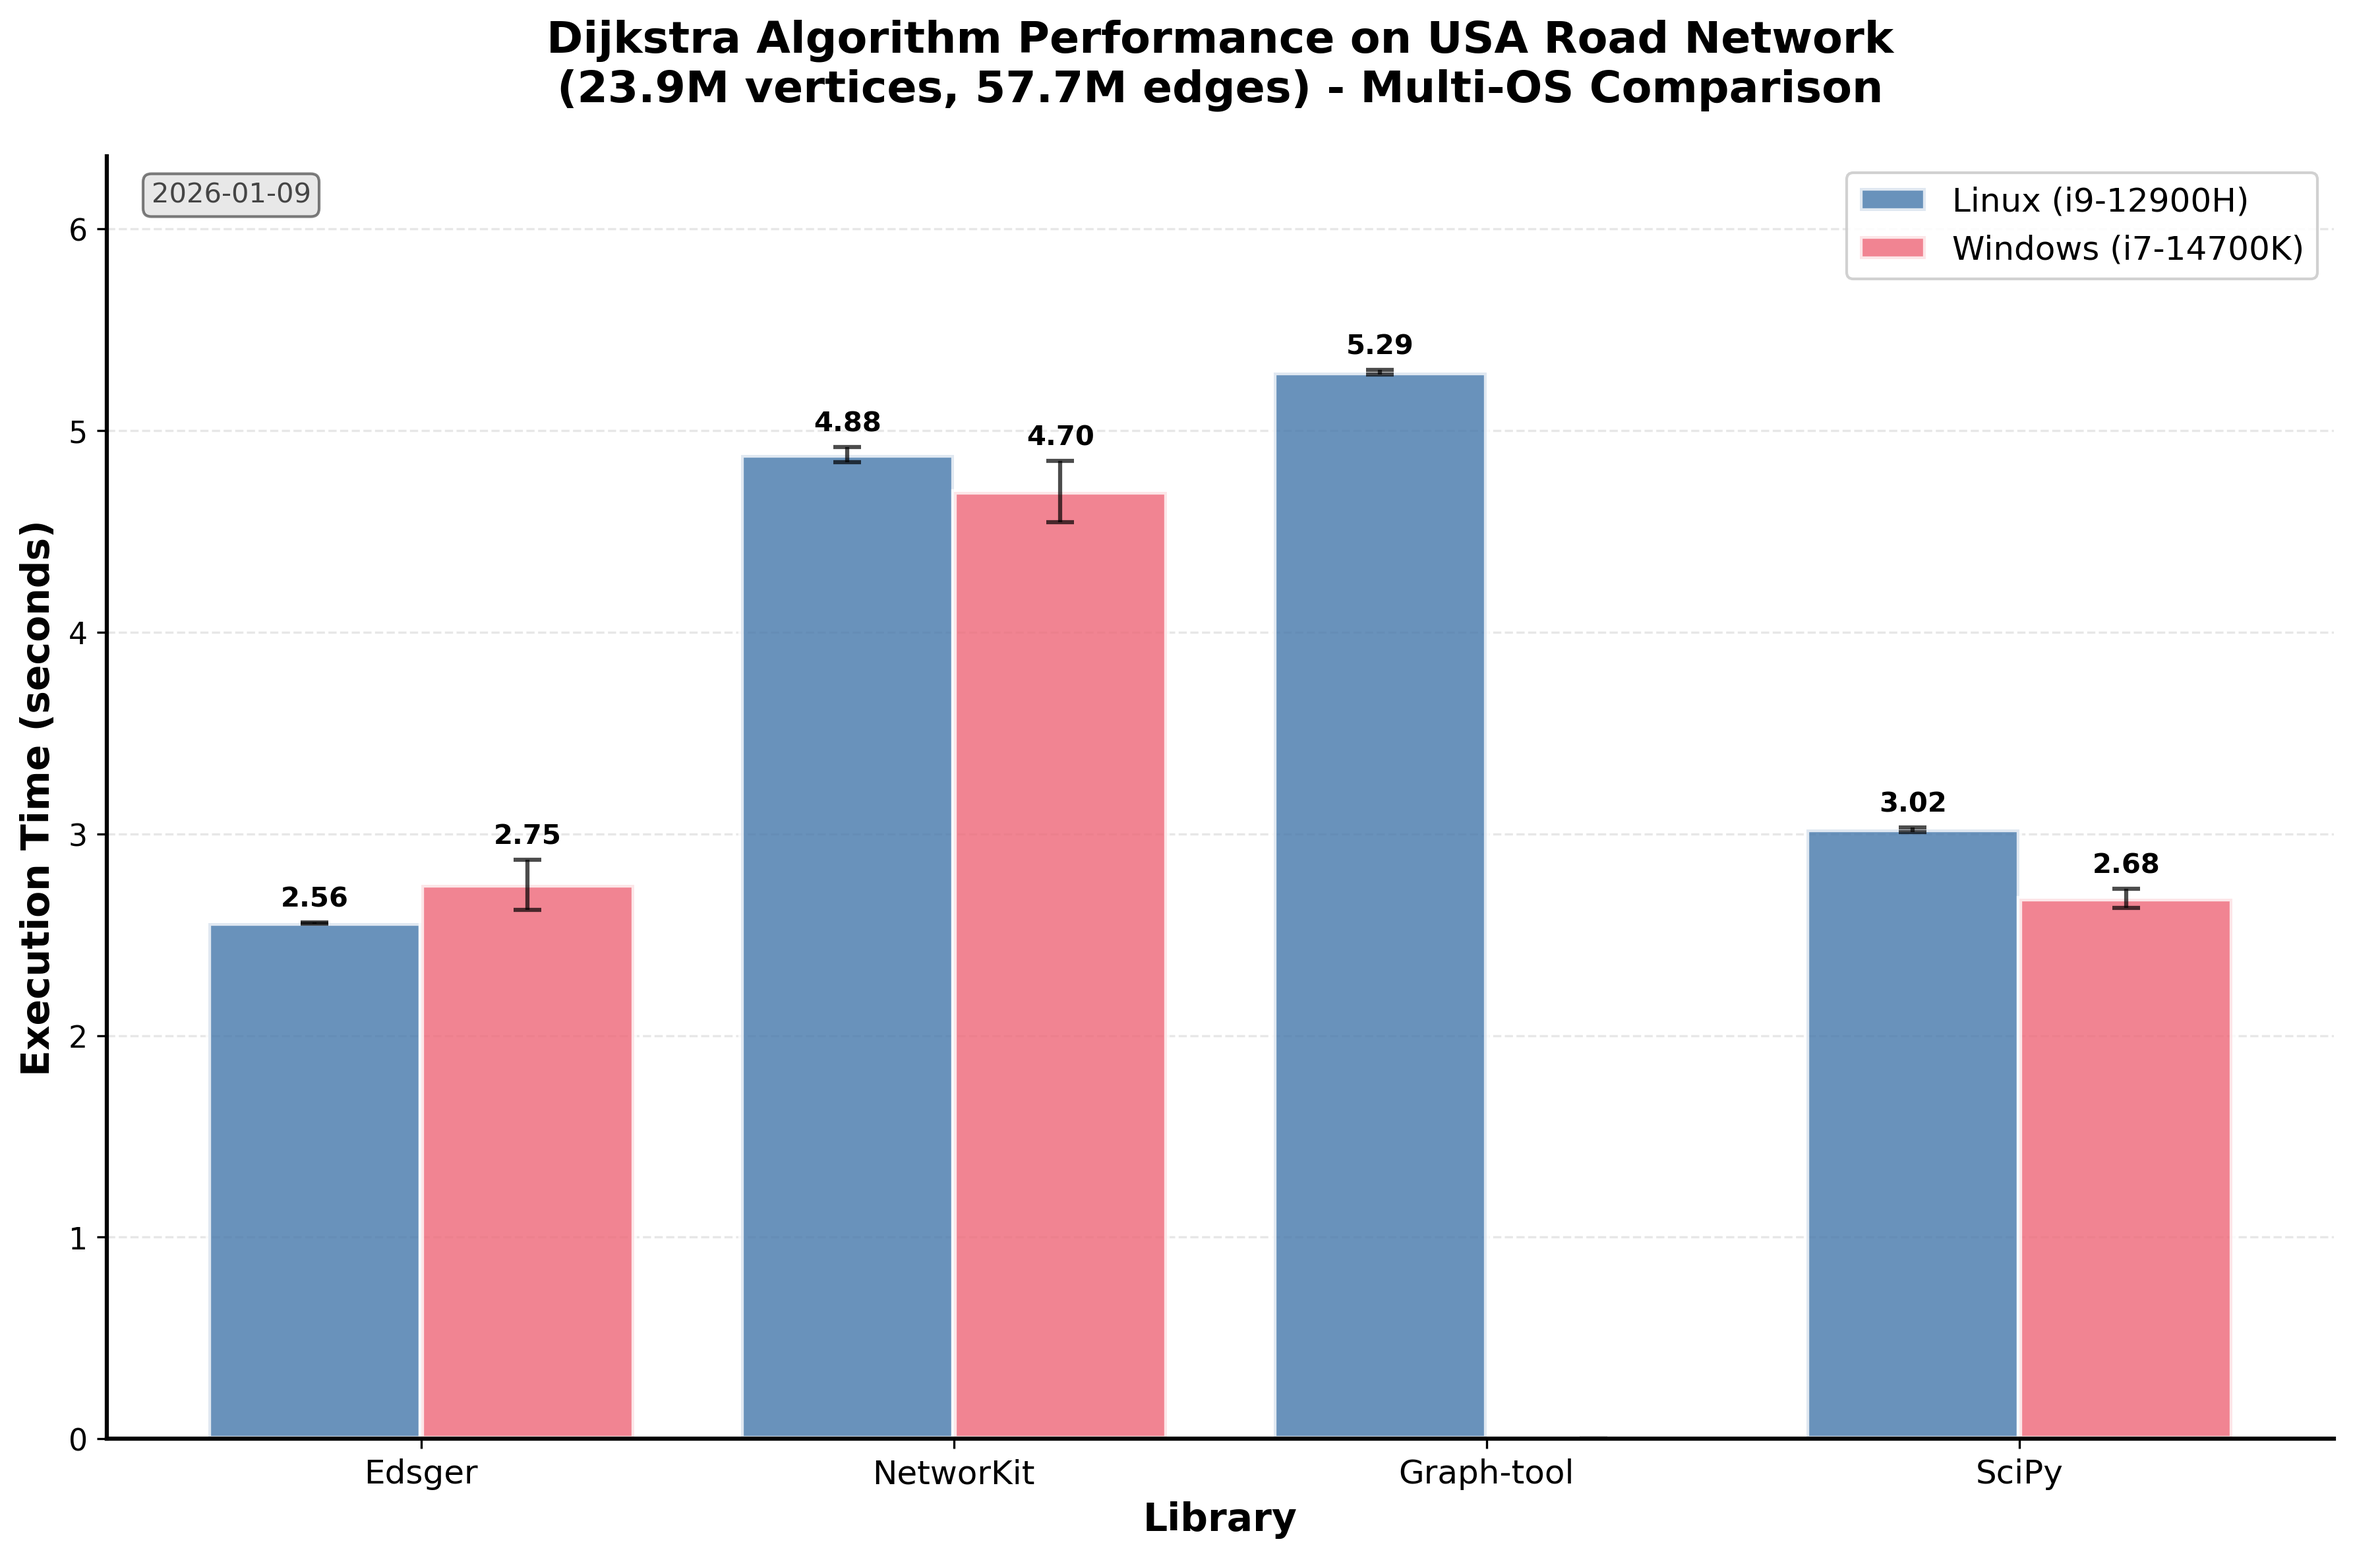
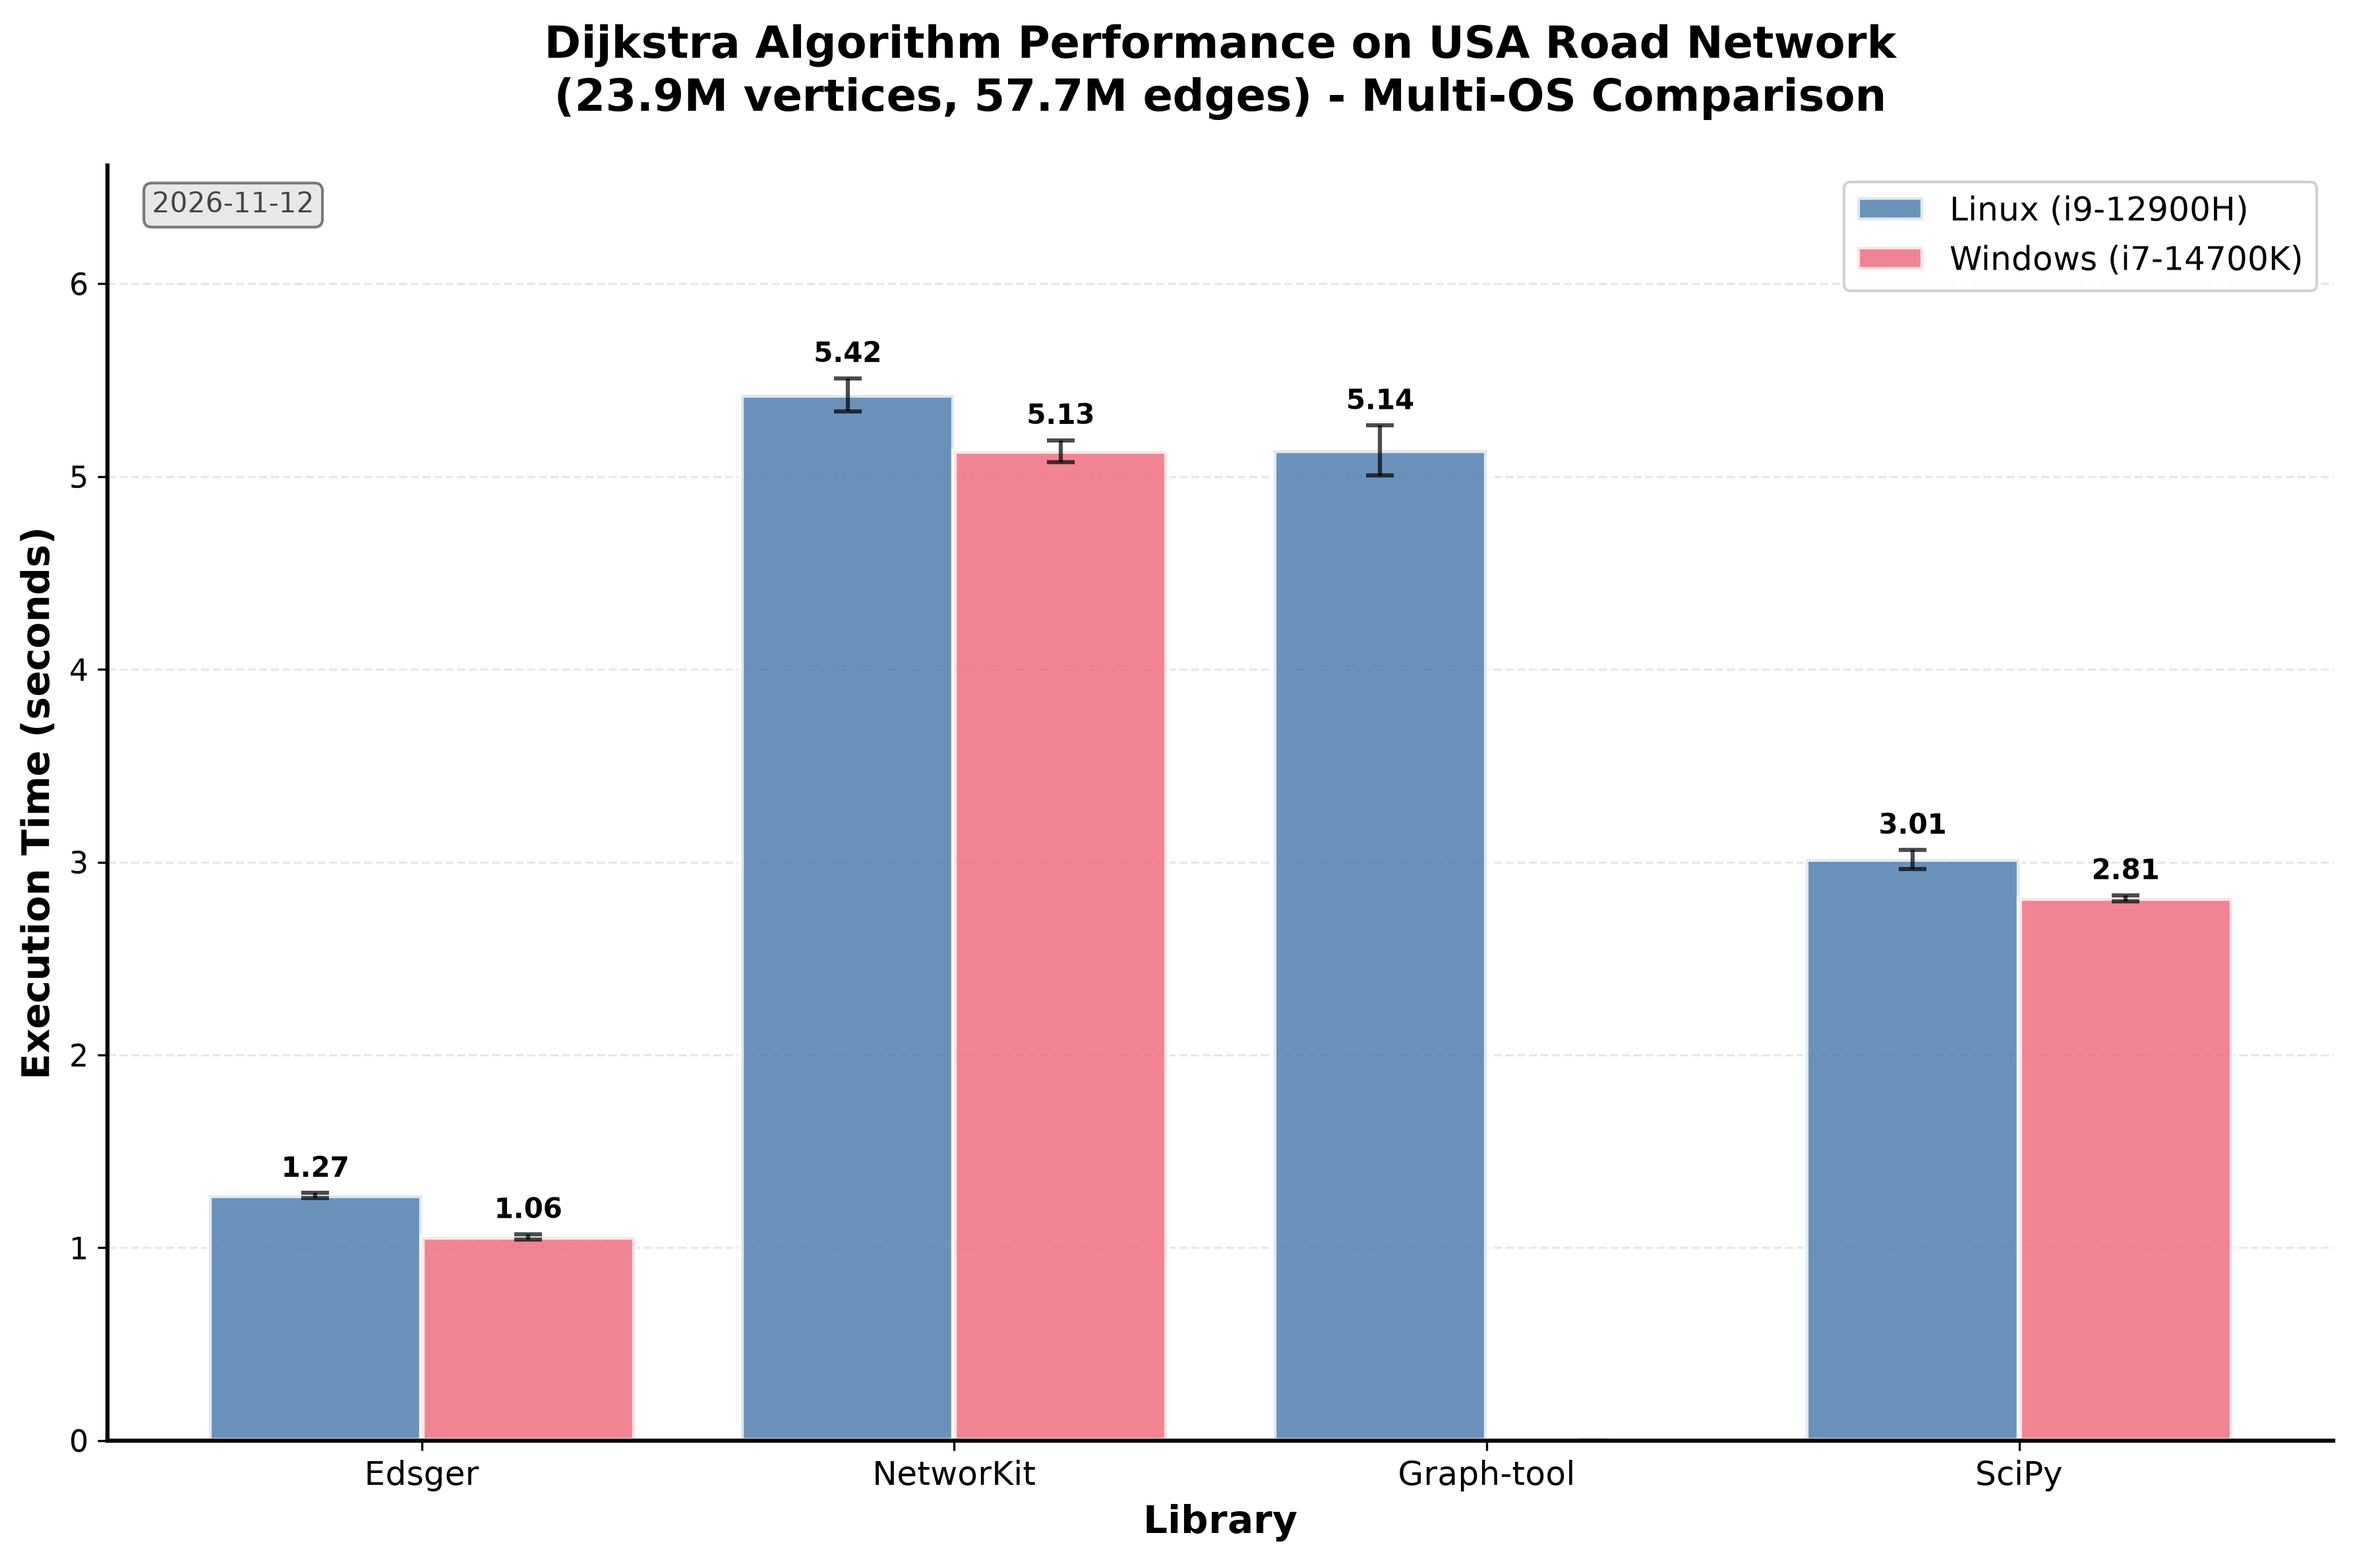
Link advapi32 on Windows for the large pages allocator, Windows benchmark results on Python 3.14
The large pages allocator in memory_alloc.h calls OpenProcessToken,
LookupPrivilegeValue and AdjustTokenPrivileges, which require advapi32.
Without it the MSVC build failed at link time with LNK2001.

diff --git a/setup.py b/setup.py
@@ -161,6 +161,8 @@ extra_compile_args, extra_link_args, platform_macros = get_compiler_flags()
 # Large Pages / THP support is always enabled
 define_macros = [("NPY_NO_DEPRECATED_API", "NPY_1_7_API_VERSION")] + platform_macros
 define_macros_with_thp = define_macros + [("USE_LARGE_PAGES", None)]
+# The Windows large pages allocator enables SeLockMemoryPrivilege (Advapi32)
+thp_libraries = ["advapi32"] if platform.system() == "Windows" else []
 
 extensions = [
     Extension(
@@ -176,6 +178,7 @@ extensions = [
         extra_compile_args=extra_compile_args,
         extra_link_args=extra_link_args,
         define_macros=define_macros_with_thp,
+        libraries=thp_libraries,
     ),
     Extension(
         "edsger.dijkstra",
@@ -183,6 +186,7 @@ extensions = [
         extra_compile_args=extra_compile_args,
         extra_link_args=extra_link_args,
         define_macros=define_macros_with_thp,
+        libraries=thp_libraries,
     ),
     Extension(
         "edsger.dijkstra_nodec",
@@ -190,6 +194,7 @@ extensions = [
         extra_compile_args=extra_compile_args,
         extra_link_args=extra_link_args,
         define_macros=define_macros_with_thp,
+        libraries=thp_libraries,
     ),
     Extension(
         "edsger.spiess_florian",
